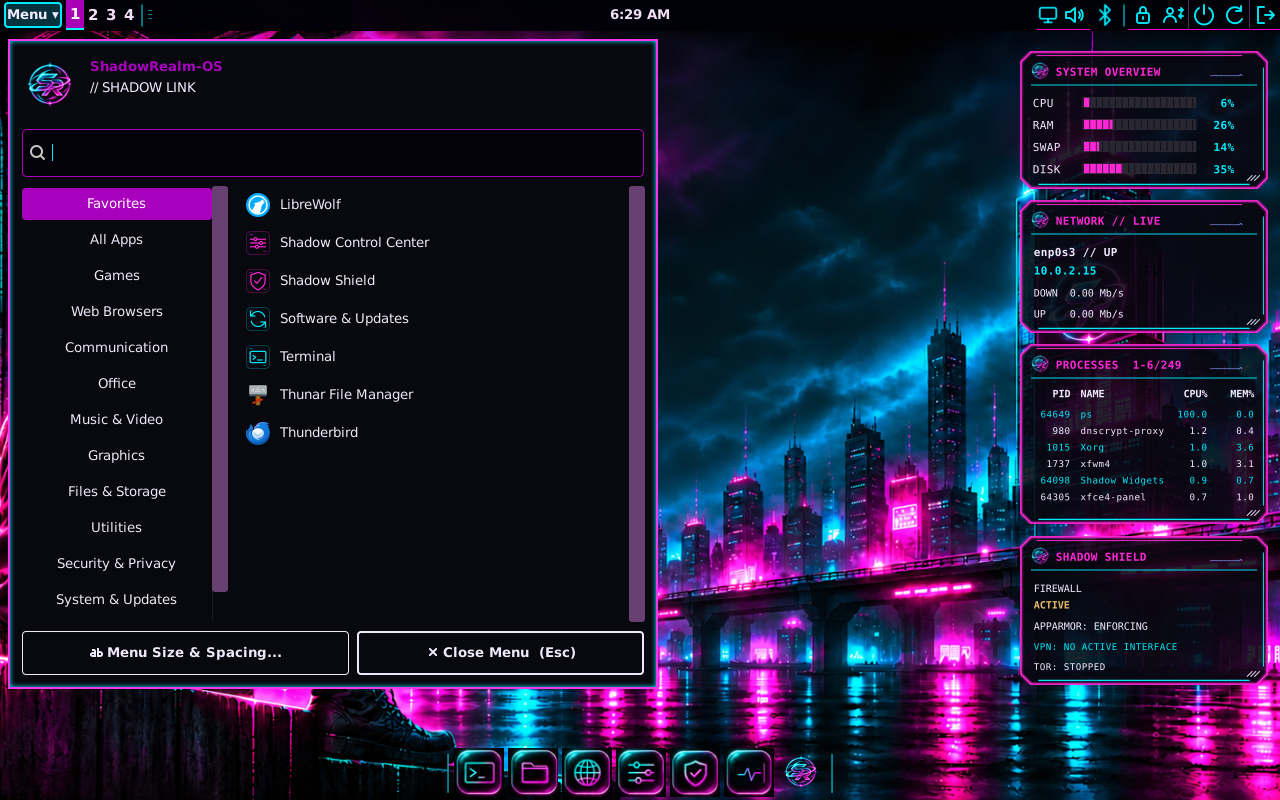
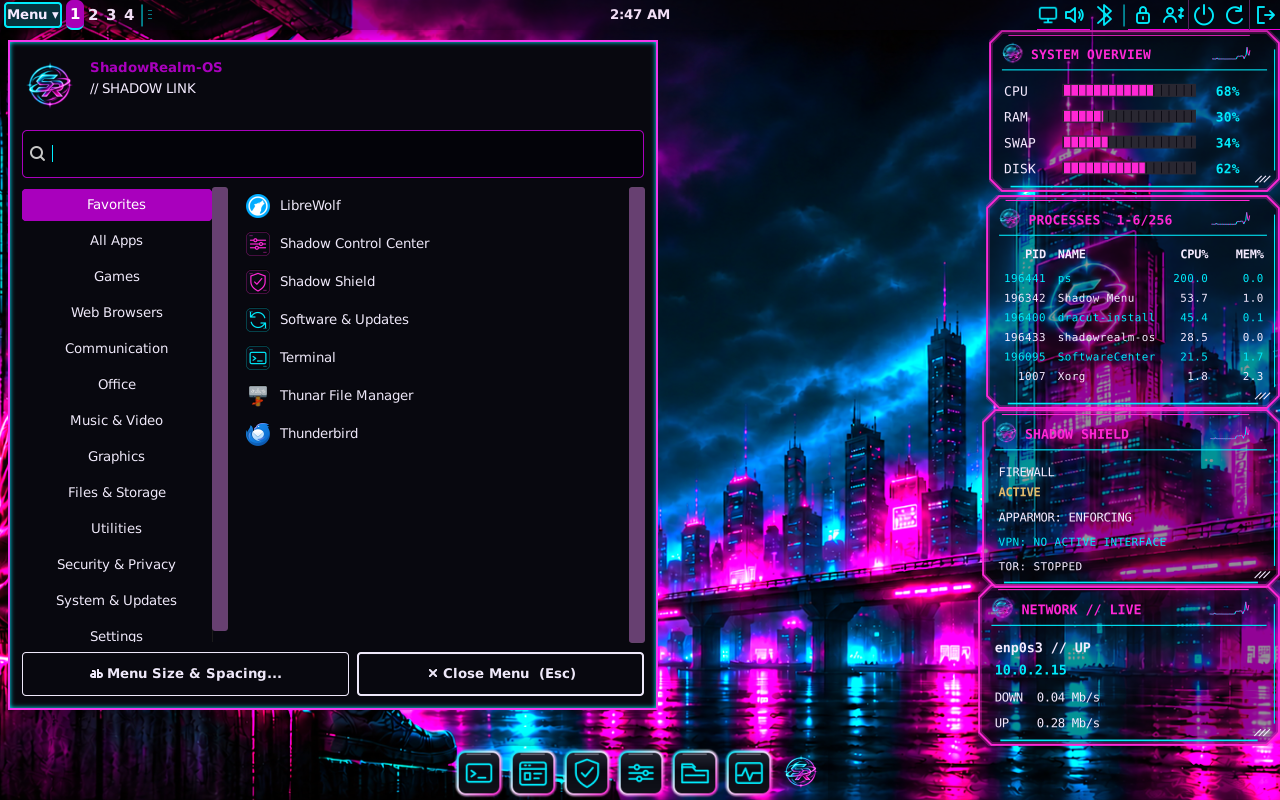
Refresh desktop screenshots and full-size system tool previews

diff --git a/website/index.html b/website/index.html
@@ -1,11 +1,11 @@
 <!doctype html>
 <html lang="en"><head><meta charset="utf-8"><meta name="viewport" content="width=device-width, initial-scale=1"><meta name="description" content="ShadowRealm-OS: a Debian 13 and Xfce desktop with coordinated themes, integrated controls and a live installer. Public beta."><title>ShadowRealm-OS — Debian desktop, your style</title>
-<style>:root{color-scheme:dark}body{margin:0;background:#080a10;color:#e8edf5;font:17px/1.65 system-ui,sans-serif}main{max-width:1120px;margin:auto;padding:32px 24px 70px}a{color:#68e5f2}a:focus-visible{outline:3px solid #ff66d8;outline-offset:5px}.brand{display:block;width:100%;max-width:880px;margin:0 auto 35px}h1,h2{line-height:1.2}h1{font-size:clamp(30px,5vw,52px);max-width:800px}.lede{color:#bdcadc;font-size:21px;max-width:840px}.badge{color:#ff8ce5;font-weight:700}.buttons{display:flex;gap:16px;flex-wrap:wrap;margin:28px 0}.button{padding:12px 20px;border:1px solid #4bd6e7;border-radius:9px;text-decoration:none}.primary{background:#b8f8ff;color:#09141d;font-weight:700}.screen{width:100%;border:1px solid #273044;border-radius:12px;margin:12px 0}.grid{display:grid;grid-template-columns:repeat(auto-fit,minmax(min(100%,270px),1fr));gap:22px}.widget-grid{grid-template-columns:repeat(auto-fit,minmax(min(100%,280px),1fr))}.card{background:#10151f;border:1px solid #273044;border-radius:12px;padding:22px}small,footer{color:#a9b6c9}footer{border-top:1px solid #273044;margin-top:40px;padding-top:22px}li{margin:.45em 0}</style>
+<style>:root{color-scheme:dark}body{margin:0;background:#080a10;color:#e8edf5;font:17px/1.65 system-ui,sans-serif}main{max-width:1120px;margin:auto;padding:32px 24px 70px}a{color:#68e5f2}a:focus-visible{outline:3px solid #ff66d8;outline-offset:5px}.brand{display:block;width:100%;max-width:880px;margin:0 auto 35px}h1,h2{line-height:1.2}h1{font-size:clamp(30px,5vw,52px);max-width:800px}.lede{color:#bdcadc;font-size:21px;max-width:840px}.badge{color:#ff8ce5;font-weight:700}.buttons{display:flex;gap:16px;flex-wrap:wrap;margin:28px 0}.button{padding:12px 20px;border:1px solid #4bd6e7;border-radius:9px;text-decoration:none}.primary{background:#b8f8ff;color:#09141d;font-weight:700}.screen{width:100%;border:1px solid #273044;border-radius:12px;margin:12px 0}.grid{display:grid;grid-template-columns:repeat(auto-fit,minmax(min(100%,270px),1fr));gap:22px}.widget-grid{grid-template-columns:repeat(auto-fit,minmax(min(100%,280px),1fr))}.card{background:#10151f;border:1px solid #273044;border-radius:12px;padding:22px}small,footer{color:#a9b6c9}footer{border-top:1px solid #273044;margin-top:40px;padding-top:22px}li{margin:.45em 0}.tool-gallery{display:flex;gap:20px;overflow-x:auto;scroll-snap-type:x mandatory;padding:4px 0 18px}.tool-gallery figure{flex:0 0 min(100%,900px);margin:0;scroll-snap-align:start;background:#10151f;border:1px solid #273044;border-radius:12px;overflow:hidden}.tool-gallery img{display:block;width:100%;height:auto}.tool-gallery figcaption{padding:14px 18px;color:#bfcbdc}.tool-gallery strong{color:#e8edf5}@media(prefers-reduced-motion:no-preference){.tool-gallery{scroll-behavior:smooth}}</style>
 </head><body>
 <aside role="status" style="max-width:1080px;margin:24px auto;border:1px solid #a88a45;border-radius:10px;background:#211c12;color:#f2dfb0;padding:16px 20px"><strong>Website updates in progress</strong><br>We are reorganizing these pages and refreshing screenshots. Screenshots show the current desktop updates. The current beta download is unchanged.</aside>
-<main><img class="brand" src="https://raw.githubusercontent.com/AstraShadowsss/ShadowRealm-OS/main/branding/banner-neon.png" alt="ShadowRealm-OS SR logo and wordmark"><p class="badge">2026.11 beta 1 · AMD64</p><h1>A familiar Linux desktop with a style of its own.</h1><p class="lede">Built on Debian 13 and Xfce, ShadowRealm-OS brings applications, desktop controls and live status panels into one coordinated workspace. Try it from a USB drive or virtual machine before installing.</p><nav class="buttons"><a class="button primary" href="https://sourceforge.net/projects/shadowrealm-os/files/2026.11-beta1/ShadowRealm-OS-2026.11-beta1-r4-amd64.iso/download">Download the beta ISO</a><a class="button" href="https://astrashadowsss.github.io/ShadowRealm-OS/docs/installation.html">Installation guide</a><a class="button" href="https://github.com/AstraShadowsss/ShadowRealm-OS">Source and documentation</a><a class="button" href="https://shadowrealm-os.sourceforge.io/apt/">Updates &amp; Packages</a></nav><img class="screen" src="https://raw.githubusercontent.com/AstraShadowsss/ShadowRealm-OS/main/screenshots/desktop.png" alt="Neon desktop with panel, dock and four local widgets">
+<main><img class="brand" src="https://raw.githubusercontent.com/AstraShadowsss/ShadowRealm-OS/main/branding/banner-neon.png" alt="ShadowRealm-OS SR logo and wordmark"><p class="badge">2026.11 beta 1 · AMD64</p><h1>A familiar Linux desktop with a style of its own.</h1><p class="lede">Built on Debian 13 and Xfce, ShadowRealm-OS brings applications, desktop controls and live status panels into one coordinated workspace. Try it from a USB drive or virtual machine before installing.</p><nav class="buttons"><a class="button primary" href="https://sourceforge.net/projects/shadowrealm-os/files/2026.11-beta1/ShadowRealm-OS-2026.11-beta1-r4-amd64.iso/download">Download the beta ISO</a><a class="button" href="https://astrashadowsss.github.io/ShadowRealm-OS/docs/installation.html">Installation guide</a><a class="button" href="https://github.com/AstraShadowsss/ShadowRealm-OS">Source and documentation</a><a class="button" href="https://shadowrealm-os.sourceforge.io/apt/">Updates &amp; Packages</a></nav><img class="screen" src="https://raw.githubusercontent.com/AstraShadowsss/ShadowRealm-OS/main/screenshots/desktop.png?v=20261123b" alt="Neon desktop with panel, dock and four local widgets">
 <section class="grid"><article class="card"><h2>Make it yours</h2><p>Coordinated styles, independent icon and dock choices, drag-and-drop dock editing, separate wallpapers and configurable background transparency. Native third-party application icons stay recognizable.</p></article><article class="card"><h2>Everyday controls</h2><p>Network, audio, Bluetooth, accounts, appearance and software tools. Movable widgets display resources, traffic, processes and privacy-service status. Optional widgets add a clock, calendar, local notes and a weather forecast.</p></article><article class="card"><h2>Updates you control</h2><p>Debian and configured vendors provide their updates. A signed repository supplies custom desktop components and nine offline games. Software &amp; Updates shows available APT updates; Flatpak updates are separate.</p></article></section>
-<section id="terminal"><h2>Terminal</h2><p>A familiar shell with live system information, adjustable text and desktop-matched colors.</p><img class="screen" src="https://raw.githubusercontent.com/AstraShadowsss/ShadowRealm-OS/main/screenshots/terminal-current.png" alt="Terminal running on the current desktop" loading="lazy"></section><h2>Control Center</h2><p>Network, audio, Bluetooth, accounts, appearance and software tools in one place.</p><img class="screen" src="https://raw.githubusercontent.com/AstraShadowsss/ShadowRealm-OS/main/screenshots/control-center-neon.png" alt="Searchable Control Center in Neon" loading="lazy"><section id="widgets"><h2>Desktop widgets</h2><p>Eight independent widgets, shown together in Professional styling. They follow your desktop theme and can be moved, resized and customized separately.</p><section class="grid widget-grid"><article class="card"><h3>System overview</h3><a href="https://raw.githubusercontent.com/AstraShadowsss/ShadowRealm-OS/main/screenshots/widgets/system.png" target="_blank" rel="noopener"><img style="display:block;width:100%;max-width:270px;height:auto;border-radius:12px;margin:16px auto" src="https://raw.githubusercontent.com/AstraShadowsss/ShadowRealm-OS/main/screenshots/widgets/system.png" alt="System overview widget" loading="lazy"></a><p>CPU, memory, swap and system disk usage.</p></article><article class="card"><h3>Network</h3><a href="https://raw.githubusercontent.com/AstraShadowsss/ShadowRealm-OS/main/screenshots/widgets/network.png" target="_blank" rel="noopener"><img style="display:block;width:100%;max-width:270px;height:auto;border-radius:12px;margin:16px auto" src="https://raw.githubusercontent.com/AstraShadowsss/ShadowRealm-OS/main/screenshots/widgets/network.png" alt="Network widget" loading="lazy"></a><p>Active interface, address and live transfer rates in Mb/s.</p></article><article class="card"><h3>Processes</h3><a href="https://raw.githubusercontent.com/AstraShadowsss/ShadowRealm-OS/main/screenshots/widgets/processes.png" target="_blank" rel="noopener"><img style="display:block;width:100%;max-width:270px;height:auto;border-radius:12px;margin:16px auto" src="https://raw.githubusercontent.com/AstraShadowsss/ShadowRealm-OS/main/screenshots/widgets/processes.png" alt="Processes widget" loading="lazy"></a><p>Process names, PIDs, CPU and memory usage.</p></article><article class="card"><h3>Shadow Shield</h3><a href="https://raw.githubusercontent.com/AstraShadowsss/ShadowRealm-OS/main/screenshots/widgets/shield.png" target="_blank" rel="noopener"><img style="display:block;width:100%;max-width:270px;height:auto;border-radius:12px;margin:16px auto" src="https://raw.githubusercontent.com/AstraShadowsss/ShadowRealm-OS/main/screenshots/widgets/shield.png" alt="Shadow Shield widget" loading="lazy"></a><p>Firewall, AppArmor, Tor and VPN service status.</p></article><article class="card"><h3>Clock</h3><a href="https://raw.githubusercontent.com/AstraShadowsss/ShadowRealm-OS/main/screenshots/widgets/clock.png" target="_blank" rel="noopener"><img style="display:block;width:100%;max-width:270px;height:auto;border-radius:12px;margin:16px auto" src="https://raw.githubusercontent.com/AstraShadowsss/ShadowRealm-OS/main/screenshots/widgets/clock.png" alt="Clock widget" loading="lazy"></a><p>An independent, easy-to-read local clock.</p></article><article class="card"><h3>Calendar</h3><a href="https://raw.githubusercontent.com/AstraShadowsss/ShadowRealm-OS/main/screenshots/widgets/calendar.png" target="_blank" rel="noopener"><img style="display:block;width:100%;max-width:270px;height:auto;border-radius:12px;margin:16px auto" src="https://raw.githubusercontent.com/AstraShadowsss/ShadowRealm-OS/main/screenshots/widgets/calendar.png" alt="Calendar widget" loading="lazy"></a><p>Month view with today&#x27;s date highlighted.</p></article><article class="card"><h3>Notes</h3><a href="https://raw.githubusercontent.com/AstraShadowsss/ShadowRealm-OS/main/screenshots/widgets/notes.png" target="_blank" rel="noopener"><img style="display:block;width:100%;max-width:270px;height:auto;border-radius:12px;margin:16px auto" src="https://raw.githubusercontent.com/AstraShadowsss/ShadowRealm-OS/main/screenshots/widgets/notes.png" alt="Notes widget" loading="lazy"></a><p>A small place to keep local notes and reminders.</p></article><article class="card"><h3>Weather</h3><a href="https://raw.githubusercontent.com/AstraShadowsss/ShadowRealm-OS/main/screenshots/widgets/weather.png" target="_blank" rel="noopener"><img style="display:block;width:100%;max-width:270px;height:auto;border-radius:12px;margin:16px auto" src="https://raw.githubusercontent.com/AstraShadowsss/ShadowRealm-OS/main/screenshots/widgets/weather.png" alt="Weather widget" loading="lazy"></a><p>An optional forecast for a manually chosen location.</p></article></section><details class="card widget-customization"><summary>Arrange and customize your widgets</summary><p>Choose which panels appear, adjust their text, graph and bar colors, and set background transparency. Theme follows the shared background setting in Appearance.</p><img class="screen" src="https://raw.githubusercontent.com/AstraShadowsss/ShadowRealm-OS/main/screenshots/widget-customization.png" alt="Current widget controls in the Professional desktop" loading="lazy"></details><p><a href="https://astrashadowsss.github.io/ShadowRealm-OS/docs/widgets.html">Explore the widget controls</a></p></section><h2>System tools</h2><img class="screen" src="https://raw.githubusercontent.com/AstraShadowsss/ShadowRealm-OS/main/screenshots/system-tools.png" alt="Network, Shadow Shield and Software &amp; Updates controls" loading="lazy"><section id="applications"><h2>Applications</h2><p>Search and browse installed applications by category. The dock keeps the shortcuts you choose.</p><img class="screen" src="https://raw.githubusercontent.com/AstraShadowsss/ShadowRealm-OS/main/screenshots/application-menu.png" alt="Categorized application menu" loading="lazy"></section><section id="games"><h2>Games</h2><p>Nine lightweight arcade and card games, with local scores and settings. No accounts or advertisements. Scroll through the collection or open a screenshot for a closer look.</p><div class="game-navigation"><button type="button" class="game-previous" aria-label="Previous game">← Previous</button><button type="button" class="game-next" aria-label="Next game">Next →</button></div><div class="game-strip" tabindex="0" role="region" aria-label="Offline games"><figure class="game-card"><a href="https://raw.githubusercontent.com/AstraShadowsss/ShadowRealm-OS/main/screenshots/games/shadow-pinball.png" target="_blank" rel="noopener"><img src="https://raw.githubusercontent.com/AstraShadowsss/ShadowRealm-OS/main/screenshots/games/shadow-pinball.png" alt="Shadow Pinball gameplay" loading="lazy"></a><figcaption><strong>Shadow Pinball</strong><span>Pinball</span></figcaption></figure><figure class="game-card"><a href="https://raw.githubusercontent.com/AstraShadowsss/ShadowRealm-OS/main/screenshots/games/skull-invaders.png?v=20261122games" target="_blank" rel="noopener"><img src="https://raw.githubusercontent.com/AstraShadowsss/ShadowRealm-OS/main/screenshots/games/skull-invaders.png?v=20261122games" alt="Skull Invaders gameplay" loading="lazy"></a><figcaption><strong>Skull Invaders</strong><span>Arcade shooter</span></figcaption></figure><figure class="game-card"><a href="https://raw.githubusercontent.com/AstraShadowsss/ShadowRealm-OS/main/screenshots/games/shadow-runner.png" target="_blank" rel="noopener"><img src="https://raw.githubusercontent.com/AstraShadowsss/ShadowRealm-OS/main/screenshots/games/shadow-runner.png" alt="Shadow Runner gameplay" loading="lazy"></a><figcaption><strong>Shadow Runner</strong><span>Endless runner</span></figcaption></figure><figure class="game-card"><a href="https://raw.githubusercontent.com/AstraShadowsss/ShadowRealm-OS/main/screenshots/games/circuit-chase.png?v=20261122games" target="_blank" rel="noopener"><img src="https://raw.githubusercontent.com/AstraShadowsss/ShadowRealm-OS/main/screenshots/games/circuit-chase.png?v=20261122games" alt="Circuit Chase gameplay" loading="lazy"></a><figcaption><strong>Circuit Chase</strong><span>Maze chase</span></figcaption></figure><figure class="game-card"><a href="https://raw.githubusercontent.com/AstraShadowsss/ShadowRealm-OS/main/screenshots/games/shadow-snake.png" target="_blank" rel="noopener"><img src="https://raw.githubusercontent.com/AstraShadowsss/ShadowRealm-OS/main/screenshots/games/shadow-snake.png" alt="Snake gameplay" loading="lazy"></a><figcaption><strong>Snake</strong><span>Grid arcade</span></figcaption></figure><figure class="game-card"><a href="https://raw.githubusercontent.com/AstraShadowsss/ShadowRealm-OS/main/screenshots/games/shadow-solitaire.png" target="_blank" rel="noopener"><img src="https://raw.githubusercontent.com/AstraShadowsss/ShadowRealm-OS/main/screenshots/games/shadow-solitaire.png" alt="Shadow Spider Solitaire gameplay" loading="lazy"></a><figcaption><strong>Shadow Spider Solitaire</strong><span>Card game</span></figcaption></figure><figure class="game-card"><a href="https://raw.githubusercontent.com/AstraShadowsss/ShadowRealm-OS/main/screenshots/games/neon-ascent.png" target="_blank" rel="noopener"><img src="https://raw.githubusercontent.com/AstraShadowsss/ShadowRealm-OS/main/screenshots/games/neon-ascent.png" alt="Neon Ascent gameplay" loading="lazy"></a><figcaption><strong>Neon Ascent</strong><span>Platform jumper</span></figcaption></figure><figure class="game-card"><a href="https://raw.githubusercontent.com/AstraShadowsss/ShadowRealm-OS/main/screenshots/games/neon-breaker.png" target="_blank" rel="noopener"><img src="https://raw.githubusercontent.com/AstraShadowsss/ShadowRealm-OS/main/screenshots/games/neon-breaker.png" alt="Neon Breaker gameplay" loading="lazy"></a><figcaption><strong>Neon Breaker</strong><span>Brick breaker</span></figcaption></figure><figure class="game-card"><a href="https://raw.githubusercontent.com/AstraShadowsss/ShadowRealm-OS/main/screenshots/games/marble-reactor.png?v=20261122games" target="_blank" rel="noopener"><img src="https://raw.githubusercontent.com/AstraShadowsss/ShadowRealm-OS/main/screenshots/games/marble-reactor.png?v=20261122games" alt="Marble Reactor gameplay" loading="lazy"></a><figcaption><strong>Marble Reactor</strong><span>Marble puzzle</span></figcaption></figure></div><p class="game-position" aria-live="polite"></p><article class="card android-games"><div><h3>Shadow Games for Android</h3><p>Take the nine games with you. The Android preview uses touch controls and plays offline.</p><a class="button" href="https://astrashadowsss.github.io/ShadowRealm-OS/docs/shadow-games-android.html">Android screenshots and installation</a></div><img src="https://raw.githubusercontent.com/AstraShadowsss/ShadowRealm-OS/main/screenshots/android/game-menu.png" alt="Shadow Games Android games menu" loading="lazy"></article></section>
+<section id="terminal"><h2>Terminal</h2><p>A familiar shell with live system information, adjustable text and desktop-matched colors.</p><img class="screen" src="https://raw.githubusercontent.com/AstraShadowsss/ShadowRealm-OS/main/screenshots/terminal-current.png?v=20261123b" alt="Terminal running on the current desktop" loading="lazy"></section><h2>Control Center</h2><p>Network, audio, Bluetooth, accounts, appearance and software tools in one place.</p><img class="screen" src="https://raw.githubusercontent.com/AstraShadowsss/ShadowRealm-OS/main/screenshots/control-center-neon.png?v=20261123b" alt="Searchable Control Center in Neon" loading="lazy"><section id="widgets"><h2>Desktop widgets</h2><p>Eight independent widgets, shown together in Professional styling. They follow your desktop theme and can be moved, resized and customized separately.</p><section class="grid widget-grid"><article class="card"><h3>System overview</h3><a href="https://raw.githubusercontent.com/AstraShadowsss/ShadowRealm-OS/main/screenshots/widgets/system.png" target="_blank" rel="noopener"><img style="display:block;width:100%;max-width:270px;height:auto;border-radius:12px;margin:16px auto" src="https://raw.githubusercontent.com/AstraShadowsss/ShadowRealm-OS/main/screenshots/widgets/system.png" alt="System overview widget" loading="lazy"></a><p>CPU, memory, swap and system disk usage.</p></article><article class="card"><h3>Network</h3><a href="https://raw.githubusercontent.com/AstraShadowsss/ShadowRealm-OS/main/screenshots/widgets/network.png" target="_blank" rel="noopener"><img style="display:block;width:100%;max-width:270px;height:auto;border-radius:12px;margin:16px auto" src="https://raw.githubusercontent.com/AstraShadowsss/ShadowRealm-OS/main/screenshots/widgets/network.png" alt="Network widget" loading="lazy"></a><p>Active interface, address and live transfer rates in Mb/s.</p></article><article class="card"><h3>Processes</h3><a href="https://raw.githubusercontent.com/AstraShadowsss/ShadowRealm-OS/main/screenshots/widgets/processes.png" target="_blank" rel="noopener"><img style="display:block;width:100%;max-width:270px;height:auto;border-radius:12px;margin:16px auto" src="https://raw.githubusercontent.com/AstraShadowsss/ShadowRealm-OS/main/screenshots/widgets/processes.png" alt="Processes widget" loading="lazy"></a><p>Process names, PIDs, CPU and memory usage.</p></article><article class="card"><h3>Shadow Shield</h3><a href="https://raw.githubusercontent.com/AstraShadowsss/ShadowRealm-OS/main/screenshots/widgets/shield.png" target="_blank" rel="noopener"><img style="display:block;width:100%;max-width:270px;height:auto;border-radius:12px;margin:16px auto" src="https://raw.githubusercontent.com/AstraShadowsss/ShadowRealm-OS/main/screenshots/widgets/shield.png" alt="Shadow Shield widget" loading="lazy"></a><p>Firewall, AppArmor, Tor and VPN service status.</p></article><article class="card"><h3>Clock</h3><a href="https://raw.githubusercontent.com/AstraShadowsss/ShadowRealm-OS/main/screenshots/widgets/clock.png" target="_blank" rel="noopener"><img style="display:block;width:100%;max-width:270px;height:auto;border-radius:12px;margin:16px auto" src="https://raw.githubusercontent.com/AstraShadowsss/ShadowRealm-OS/main/screenshots/widgets/clock.png" alt="Clock widget" loading="lazy"></a><p>An independent, easy-to-read local clock.</p></article><article class="card"><h3>Calendar</h3><a href="https://raw.githubusercontent.com/AstraShadowsss/ShadowRealm-OS/main/screenshots/widgets/calendar.png" target="_blank" rel="noopener"><img style="display:block;width:100%;max-width:270px;height:auto;border-radius:12px;margin:16px auto" src="https://raw.githubusercontent.com/AstraShadowsss/ShadowRealm-OS/main/screenshots/widgets/calendar.png" alt="Calendar widget" loading="lazy"></a><p>Month view with today&#x27;s date highlighted.</p></article><article class="card"><h3>Notes</h3><a href="https://raw.githubusercontent.com/AstraShadowsss/ShadowRealm-OS/main/screenshots/widgets/notes.png" target="_blank" rel="noopener"><img style="display:block;width:100%;max-width:270px;height:auto;border-radius:12px;margin:16px auto" src="https://raw.githubusercontent.com/AstraShadowsss/ShadowRealm-OS/main/screenshots/widgets/notes.png" alt="Notes widget" loading="lazy"></a><p>A small place to keep local notes and reminders.</p></article><article class="card"><h3>Weather</h3><a href="https://raw.githubusercontent.com/AstraShadowsss/ShadowRealm-OS/main/screenshots/widgets/weather.png" target="_blank" rel="noopener"><img style="display:block;width:100%;max-width:270px;height:auto;border-radius:12px;margin:16px auto" src="https://raw.githubusercontent.com/AstraShadowsss/ShadowRealm-OS/main/screenshots/widgets/weather.png" alt="Weather widget" loading="lazy"></a><p>An optional forecast for a manually chosen location.</p></article></section><details class="card widget-customization"><summary>Arrange and customize your widgets</summary><p>Choose which panels appear, adjust their text, graph and bar colors, and set background transparency. Theme follows the shared background setting in Appearance.</p><img class="screen" src="https://raw.githubusercontent.com/AstraShadowsss/ShadowRealm-OS/main/screenshots/widget-customization.png?v=20261123b" alt="Current widget controls in the Professional desktop" loading="lazy"></details><p><a href="https://astrashadowsss.github.io/ShadowRealm-OS/docs/widgets.html">Explore the widget controls</a></p></section><h2>System tools</h2><p>Scroll through the panels, or select an image to open it at full size.</p><nav class="buttons" aria-label="System tool previews"><a class="button" href="#tools-network">Network</a><a class="button" href="#tools-shield">Shadow Shield</a><a class="button" href="#tools-software-updates">Software &amp; Updates</a></nav><div class="tool-gallery" tabindex="0" aria-label="System tool screenshots"><figure id="tools-network"><a href="https://raw.githubusercontent.com/AstraShadowsss/ShadowRealm-OS/main/screenshots/system-tools/network.png?v=20261123b" target="_blank" rel="noopener"><img src="https://raw.githubusercontent.com/AstraShadowsss/ShadowRealm-OS/main/screenshots/system-tools/network.png?v=20261123b" alt="Network window" width="1100" height="650" loading="lazy"></a><figcaption><strong>Network</strong><br>Connection, Wi-Fi, DNS, VPN and airplane mode.</figcaption></figure><figure id="tools-shield"><a href="https://raw.githubusercontent.com/AstraShadowsss/ShadowRealm-OS/main/screenshots/system-tools/shield.png?v=20261123b" target="_blank" rel="noopener"><img src="https://raw.githubusercontent.com/AstraShadowsss/ShadowRealm-OS/main/screenshots/system-tools/shield.png?v=20261123b" alt="Shadow Shield window" width="1100" height="650" loading="lazy"></a><figcaption><strong>Shadow Shield</strong><br>Firewall rules and privacy-service controls.</figcaption></figure><figure id="tools-software-updates"><a href="https://raw.githubusercontent.com/AstraShadowsss/ShadowRealm-OS/main/screenshots/system-tools/software-updates.png?v=20261123b" target="_blank" rel="noopener"><img src="https://raw.githubusercontent.com/AstraShadowsss/ShadowRealm-OS/main/screenshots/system-tools/software-updates.png?v=20261123b" alt="Software &amp; Updates window" width="1100" height="650" loading="lazy"></a><figcaption><strong>Software &amp; Updates</strong><br>Installed applications, package removal and updates.</figcaption></figure></div><section id="applications"><h2>Applications</h2><p>Search and browse installed applications by category. The dock keeps the shortcuts you choose.</p><img class="screen" src="https://raw.githubusercontent.com/AstraShadowsss/ShadowRealm-OS/main/screenshots/application-menu.png?v=20261123b" alt="Categorized application menu" loading="lazy"></section><section id="games"><h2>Games</h2><p>Nine lightweight arcade and card games, with local scores and settings. No accounts or advertisements. Scroll through the collection or open a screenshot for a closer look.</p><div class="game-navigation"><button type="button" class="game-previous" aria-label="Previous game">← Previous</button><button type="button" class="game-next" aria-label="Next game">Next →</button></div><div class="game-strip" tabindex="0" role="region" aria-label="Offline games"><figure class="game-card"><a href="https://raw.githubusercontent.com/AstraShadowsss/ShadowRealm-OS/main/screenshots/games/shadow-pinball.png" target="_blank" rel="noopener"><img src="https://raw.githubusercontent.com/AstraShadowsss/ShadowRealm-OS/main/screenshots/games/shadow-pinball.png" alt="Shadow Pinball gameplay" loading="lazy"></a><figcaption><strong>Shadow Pinball</strong><span>Pinball</span></figcaption></figure><figure class="game-card"><a href="https://raw.githubusercontent.com/AstraShadowsss/ShadowRealm-OS/main/screenshots/games/skull-invaders.png?v=20261122games" target="_blank" rel="noopener"><img src="https://raw.githubusercontent.com/AstraShadowsss/ShadowRealm-OS/main/screenshots/games/skull-invaders.png?v=20261122games" alt="Skull Invaders gameplay" loading="lazy"></a><figcaption><strong>Skull Invaders</strong><span>Arcade shooter</span></figcaption></figure><figure class="game-card"><a href="https://raw.githubusercontent.com/AstraShadowsss/ShadowRealm-OS/main/screenshots/games/shadow-runner.png" target="_blank" rel="noopener"><img src="https://raw.githubusercontent.com/AstraShadowsss/ShadowRealm-OS/main/screenshots/games/shadow-runner.png" alt="Shadow Runner gameplay" loading="lazy"></a><figcaption><strong>Shadow Runner</strong><span>Endless runner</span></figcaption></figure><figure class="game-card"><a href="https://raw.githubusercontent.com/AstraShadowsss/ShadowRealm-OS/main/screenshots/games/circuit-chase.png?v=20261122games" target="_blank" rel="noopener"><img src="https://raw.githubusercontent.com/AstraShadowsss/ShadowRealm-OS/main/screenshots/games/circuit-chase.png?v=20261122games" alt="Circuit Chase gameplay" loading="lazy"></a><figcaption><strong>Circuit Chase</strong><span>Maze chase</span></figcaption></figure><figure class="game-card"><a href="https://raw.githubusercontent.com/AstraShadowsss/ShadowRealm-OS/main/screenshots/games/shadow-snake.png" target="_blank" rel="noopener"><img src="https://raw.githubusercontent.com/AstraShadowsss/ShadowRealm-OS/main/screenshots/games/shadow-snake.png" alt="Snake gameplay" loading="lazy"></a><figcaption><strong>Snake</strong><span>Grid arcade</span></figcaption></figure><figure class="game-card"><a href="https://raw.githubusercontent.com/AstraShadowsss/ShadowRealm-OS/main/screenshots/games/shadow-solitaire.png" target="_blank" rel="noopener"><img src="https://raw.githubusercontent.com/AstraShadowsss/ShadowRealm-OS/main/screenshots/games/shadow-solitaire.png" alt="Shadow Spider Solitaire gameplay" loading="lazy"></a><figcaption><strong>Shadow Spider Solitaire</strong><span>Card game</span></figcaption></figure><figure class="game-card"><a href="https://raw.githubusercontent.com/AstraShadowsss/ShadowRealm-OS/main/screenshots/games/neon-ascent.png" target="_blank" rel="noopener"><img src="https://raw.githubusercontent.com/AstraShadowsss/ShadowRealm-OS/main/screenshots/games/neon-ascent.png" alt="Neon Ascent gameplay" loading="lazy"></a><figcaption><strong>Neon Ascent</strong><span>Platform jumper</span></figcaption></figure><figure class="game-card"><a href="https://raw.githubusercontent.com/AstraShadowsss/ShadowRealm-OS/main/screenshots/games/neon-breaker.png" target="_blank" rel="noopener"><img src="https://raw.githubusercontent.com/AstraShadowsss/ShadowRealm-OS/main/screenshots/games/neon-breaker.png" alt="Neon Breaker gameplay" loading="lazy"></a><figcaption><strong>Neon Breaker</strong><span>Brick breaker</span></figcaption></figure><figure class="game-card"><a href="https://raw.githubusercontent.com/AstraShadowsss/ShadowRealm-OS/main/screenshots/games/marble-reactor.png?v=20261122games" target="_blank" rel="noopener"><img src="https://raw.githubusercontent.com/AstraShadowsss/ShadowRealm-OS/main/screenshots/games/marble-reactor.png?v=20261122games" alt="Marble Reactor gameplay" loading="lazy"></a><figcaption><strong>Marble Reactor</strong><span>Marble puzzle</span></figcaption></figure></div><p class="game-position" aria-live="polite"></p><article class="card android-games"><div><h3>Shadow Games for Android</h3><p>Take the nine games with you. The Android preview uses touch controls and plays offline.</p><a class="button" href="https://astrashadowsss.github.io/ShadowRealm-OS/docs/shadow-games-android.html">Android screenshots and installation</a></div><img src="https://raw.githubusercontent.com/AstraShadowsss/ShadowRealm-OS/main/screenshots/android/game-menu.png" alt="Shadow Games Android games menu" loading="lazy"></article></section>
 <style>.game-navigation{display:flex;gap:10px;justify-content:flex-end;margin:16px 0}.game-navigation button{background:#151a26;color:#edf0fa;font:inherit;border:1px solid #56657f;border-radius:8px;padding:10px 16px;cursor:pointer}.game-navigation button:disabled{opacity:.45;cursor:default}.game-strip{display:grid;grid-auto-flow:column;grid-auto-columns:min(88%,620px);gap:18px;overflow-x:auto;scroll-snap-type:x mandatory;scrollbar-color:#6c84a0 #131a26;padding:3px 2px 16px}.game-card{margin:0;background:#10151f;border:1px solid #354057;border-radius:12px;overflow:hidden;scroll-snap-align:start}.game-card img{display:block;width:100%;aspect-ratio:4/3;object-fit:contain;background:#080a10}.game-card figcaption{display:flex;justify-content:space-between;gap:12px;flex-wrap:wrap;padding:14px 18px}.game-card figcaption span,.game-position{color:#b7c5d8}.android-games{display:grid;grid-template-columns:1fr 180px;gap:28px;align-items:center;margin:26px 0}.android-games img{width:100%;border-radius:12px;max-height:280px;object-fit:contain}.android-games .button{display:inline-block;margin:12px 0}.game-navigation button:focus-visible,.game-strip:focus-visible{outline:3px solid #68e5f2;outline-offset:4px}.widget-customization{margin-top:22px}.widget-customization summary{cursor:pointer;font-weight:600}@media(max-width:600px){.game-strip{grid-auto-columns:94%}.android-games{grid-template-columns:1fr}.android-games img{max-width:220px;justify-self:center}}@media(prefers-reduced-motion:no-preference){.game-strip{scroll-behavior:smooth}.button,.gallery-navigation button,.game-navigation button,.gallery-card,.game-card{transition:border-color .18s ease,background-color .18s ease,box-shadow .18s ease}.button:hover,.game-navigation button:hover,.gallery-card:hover,.game-card:hover{border-color:#68e5f2;box-shadow:0 4px 24px #0005}}</style>
 <script>(()=>{const root=document.getElementById('games'),strip=root.querySelector('.game-strip'),cards=[...strip.querySelectorAll('.game-card')],previous=root.querySelector('.game-previous'),next=root.querySelector('.game-next'),position=root.querySelector('.game-position');function selected(){let nearest=0,distance=Infinity;cards.forEach((c,i)=>{const d=Math.abs(c.getBoundingClientRect().left-strip.getBoundingClientRect().left);if(d<distance){nearest=i;distance=d;}});previous.disabled=nearest===0;next.disabled=nearest===cards.length-1;position.textContent=`${nearest+1} of ${cards.length} · ${cards[nearest].querySelector('strong').textContent}`;return nearest;}function move(delta){const target=cards[Math.max(0,Math.min(cards.length-1,selected()+delta))];strip.scrollTo({left:strip.scrollLeft+target.getBoundingClientRect().left-strip.getBoundingClientRect().left-2});}previous.addEventListener('click',()=>move(-1));next.addEventListener('click',()=>move(1));strip.addEventListener('scroll',selected,{passive:true});strip.addEventListener('keydown',e=>{if(e.key==='ArrowLeft'||e.key==='ArrowRight'){e.preventDefault();move(e.key==='ArrowLeft'?-1:1);}});selected();})();</script>
 <!-- APPEARANCE GALLERY START -->
@@ -250,7 +250,7 @@
 <figcaption><strong>Sculpted Silk</strong><span>Professional — Plum</span></figcaption></figure>
 </div>
 <p class="gallery-position" aria-live="polite" aria-atomic="true"></p>
-<div class="professional-showcase" hidden><h3>A quieter workspace</h3><p>Emerald, Ocean, Graphite and Plum accents pair with three sculpted abstract wallpapers. The same desktop controls and widgets use a restrained, unbranded appearance.</p><img class="screen" src="https://raw.githubusercontent.com/AstraShadowsss/ShadowRealm-OS/main/screenshots/professional.png?v=20261122d" alt="Professional desktop with Satin Bloom wallpaper and rounded status widgets" loading="lazy"><img class="screen" src="https://raw.githubusercontent.com/AstraShadowsss/ShadowRealm-OS/main/screenshots/control-center-professional.png?v=20261122d" alt="Control Center in the Professional desktop" loading="lazy"></div>
+<div class="professional-showcase" hidden><h3>A quieter workspace</h3><p>Emerald, Ocean, Graphite and Plum accents pair with three sculpted abstract wallpapers. The same desktop controls and widgets use a restrained, unbranded appearance.</p><img class="screen" src="https://raw.githubusercontent.com/AstraShadowsss/ShadowRealm-OS/main/screenshots/professional.png?v=20261123b" alt="Professional desktop with Satin Bloom wallpaper and rounded status widgets" loading="lazy"><img class="screen" src="https://raw.githubusercontent.com/AstraShadowsss/ShadowRealm-OS/main/screenshots/control-center-professional.png?v=20261123b" alt="Control Center in the Professional desktop" loading="lazy"></div>
 <noscript><p>Scroll sideways to browse the labeled collection.</p></noscript>
 </section>
 <style>

diff --git a/website/gallery-template.html b/website/gallery-template.html
@@ -12,7 +12,7 @@
 <!-- GALLERY CARDS -->
 </div>
 <p class="gallery-position" aria-live="polite" aria-atomic="true"></p>
-<div class="professional-showcase" hidden><h3>A quieter workspace</h3><p>Emerald, Ocean, Graphite and Plum accents pair with three sculpted abstract wallpapers. The same desktop controls and widgets use a restrained, unbranded appearance.</p><img class="screen" src="https://raw.githubusercontent.com/AstraShadowsss/ShadowRealm-OS/main/screenshots/professional.png?v=20261122b" alt="Professional desktop with Satin Bloom wallpaper and rounded status widgets" loading="lazy"><img class="screen" src="https://raw.githubusercontent.com/AstraShadowsss/ShadowRealm-OS/main/screenshots/control-center-professional.png?v=20261122b" alt="Control Center in the Professional desktop" loading="lazy"></div>
+<div class="professional-showcase" hidden><h3>A quieter workspace</h3><p>Emerald, Ocean, Graphite and Plum accents pair with three sculpted abstract wallpapers. The same desktop controls and widgets use a restrained, unbranded appearance.</p><img class="screen" src="https://raw.githubusercontent.com/AstraShadowsss/ShadowRealm-OS/main/screenshots/professional.png?v=20261123b" alt="Professional desktop with Satin Bloom wallpaper and rounded status widgets" loading="lazy"><img class="screen" src="https://raw.githubusercontent.com/AstraShadowsss/ShadowRealm-OS/main/screenshots/control-center-professional.png?v=20261123b" alt="Control Center in the Professional desktop" loading="lazy"></div>
 <noscript><p>Scroll sideways to browse the labeled collection.</p></noscript>
 </section>
 <style>

diff --git a/README.md b/README.md
@@ -6,7 +6,7 @@ A Debian 13 desktop with its own look, built around Xfce and a set of small, int
 
 **2026.11 beta 1 | AMD64 | live desktop and installer**
 
-![ShadowRealm-OS desktop](screenshots/desktop.png)
+![ShadowRealm-OS desktop](screenshots/desktop.png?v=20261123b)
 
 ShadowRealm-OS keeps the familiar Linux desktop: applications, files, a terminal and a package manager. Its custom panel, dock, widgets and Control Center bring the everyday controls together. Eight coordinated styles range from Neon and Hacker to White, Silver & Gold and a quieter Professional theme. Wallpapers can be changed separately.
 
@@ -45,13 +45,13 @@ The AMD64 ISO starts a live desktop so you can try it before installing. Open **
 
 A familiar shell with live system information, adjustable text and desktop-matched colors.
 
-![Terminal on the current desktop](screenshots/terminal-current.png)
+![Terminal on the current desktop](screenshots/terminal-current.png?v=20261123b)
 
 ### Control Center
 
 Network, audio, Bluetooth, accounts, appearance and software tools in one place.
 
-![Searchable Control Center in Neon](screenshots/control-center-neon.png)
+![Searchable Control Center in Neon](screenshots/control-center-neon.png?v=20261123b)
 
 
 
@@ -74,19 +74,21 @@ Eight independent widgets, shown together in Professional styling. They follow y
 
 Choose which panels appear, adjust their text, graph and bar colors, and set background transparency. Theme follows the shared background setting in Appearance.
 
-![Current widget controls](screenshots/widget-customization.png)
+![Current widget controls](screenshots/widget-customization.png?v=20261123b)
 
 </details>
 
 [Desktop widgets guide](docs/widgets.md)
 
-![Network, Shadow Shield and Software & Updates](screenshots/system-tools.png)
+[![Network, Shadow Shield and Software & Updates](screenshots/system-tools.png?v=20261123b)](screenshots/system-tools.png)
+
+View full-size panels: [Network](screenshots/system-tools/network.png), [Shadow Shield](screenshots/system-tools/shield.png), [Software & Updates](screenshots/system-tools/software-updates.png).
 
 ### Applications
 
 Search and browse installed applications by category. The dock keeps the shortcuts you choose.
 
-![Application menu](screenshots/application-menu.png)
+![Application menu](screenshots/application-menu.png?v=20261123b)
 
 ### Games
 
@@ -106,9 +108,9 @@ Nine lightweight arcade and card games, with local scores and settings. No accou
 
 Professional pairs these three unbranded designs with Emerald, Ocean, Graphite or Plum accents.
 
-![Professional desktop with Satin Bloom and rounded widgets](screenshots/professional.png?v=20261122d)
+![Professional desktop with Satin Bloom and rounded widgets](screenshots/professional.png?v=20261123b)
 
-![Professional Control Center](screenshots/control-center-professional.png?v=20261122d)
+![Professional Control Center](screenshots/control-center-professional.png?v=20261123b)
 
 
 ## Shadow Games for Android
